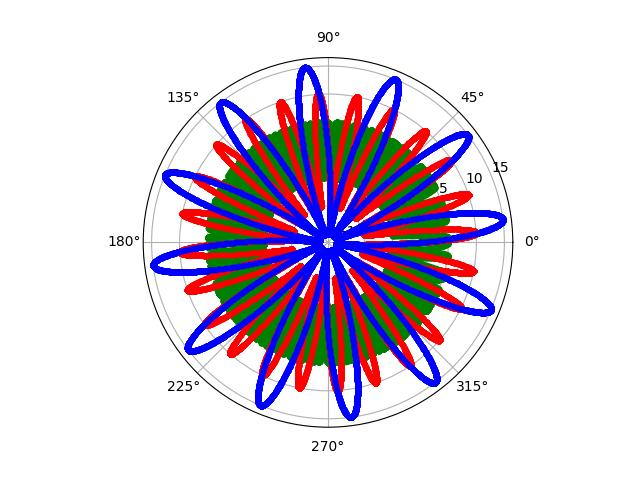
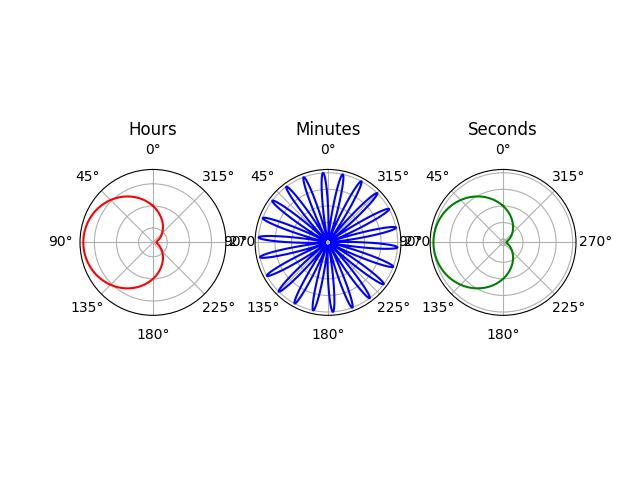
No-overlay for display: hours, minutes, seconds

diff --git a/Lab 2/escreen_clock.py b/Lab 2/escreen_clock.py
@@ -163,74 +163,89 @@ while True:
     
     # TODO: Verify parameters plot correct number of petals according to hours, minutes, seconds
     # Seconds
-    if seconds % 2 == 0 and seconds/2 % 2 == 0: # seconds are even
-        # seconds = seconds/2
-        ss = a_sec * np.sin(seconds*rads)
-        plt.polar(rads, ss, 'g.')
-    elif seconds % 2 == 0 and seconds/2 % 2 != 0:
-        ss = a_sec * np.cos((seconds/2)*rads)
-        plt.polar(rads, ss, 'g.')
-        ss = a_sec * np.cos((seconds/2)*rads)
-        plt.polar(rads, ss, 'g.')
-    else: # seconds are odd
-        ss = a_sec * np.sin(seconds*rads)
-        plt.polar(rads, ss, 'g.')
+    # if seconds % 2 == 0 and seconds/2 % 2 == 0: # seconds are even
+    #     # seconds = seconds/2
+    #     ss = a_sec * np.sin(seconds*rads)
+    #     # plt.polar(rads, ss, 'g.')
+    # elif seconds % 2 == 0 and seconds/2 % 2 != 0:
+    #     ss = a_sec * np.cos((seconds/2)*rads)
+    #     # plt.polar(rads, ss, 'g.')
+    #     ss = a_sec * np.cos((seconds/2)*rads)
+    #     # plt.polar(rads, ss, 'g.')
+    # else: # seconds are odd
+    #     ss = a_sec * np.sin(seconds*rads)
+    #     # plt.polar(rads, ss, 'g.')
 
-    # Minutes
-    if minutes % 2 == 0 and minutes/2 % 2 == 0: # minute is even
-        # minutes = minutes/2
-        mm = a_min * np.sin(minutes*rads)
-        plt.polar(rads, mm, 'r.')
-    elif minutes % 2 == 0 and minutes/2 % 2 != 0:
-        mm = a_min * np.cos((minutes/2)*rads)
-        plt.polar(rads, mm, 'r.')
-        mm = a_min * np.cos((minutes/2)*rads)
-        plt.polar(rads, mm, 'r.')
-    else: # hour is odd
-        mm = a_min * np.sin(minutes*rads)
-        plt.polar(rads, mm, 'r.')
+    # # Minutes
+    # if minutes % 2 == 0 and minutes/2 % 2 == 0: # minute is even
+    #     # minutes = minutes/2
+    #     mm = a_min * np.sin(minutes*rads)
+    #     # plt.polar(rads, mm, 'r.')
+    # elif minutes % 2 == 0 and minutes/2 % 2 != 0:
+    #     mm = a_min * np.cos((minutes/2)*rads)
+    #     # plt.polar(rads, mm, 'r.')
+    #     mm = a_min * np.cos((minutes/2)*rads)
+    #     # plt.polar(rads, mm, 'r.')
+    # else: # hour is odd
+    #     mm = a_min * np.sin(minutes*rads)
+    #     # plt.polar(rads, mm, 'r.')
 
-    # Hours
-    if hours == 0:
-        hours = 12
-    if hours > 12:
-        hours = hours - 12
-    if hours % 2 == 0 and hours/2 % 2 == 0: # hour is even
-        # hours = hours/2
-        hh = a_hr * np.sin(hours*rads)
-        plt.polar(rads, hh, 'b.')
-    elif hours % 2 == 0 and hours/2 % 2 != 0:
-        hh = a_hr * np.cos((hours/2)*rads)
-        plt.polar(rads, hh, 'b.')
-        hh = a_hr * np.sin((hours/2)*rads)
-        plt.polar(rads, hh, 'b.')
-    else: # hour is odd
-        hh = a_hr * np.sin(hours*rads)
-        plt.polar(rads, hh, 'b.')
+    # # Hours
+    # if hours == 0:
+    #     hours = 12
+    # if hours > 12:
+    #     hours = hours - 12
+    # if hours % 2 == 0 and hours/2 % 2 == 0: # hour is even
+    #     # hours = hours/2
+    #     hh = a_hr * np.sin(hours*rads)
+    #     # plt.polar(rads, hh, 'b.')
+    # elif hours % 2 == 0 and hours/2 % 2 != 0:
+    #     hh = a_hr * np.cos((hours/2)*rads)
+    #     # plt.polar(rads, hh, 'b.')
+    #     hh = a_hr * np.sin((hours/2)*rads)
+    #     # plt.polar(rads, hh, 'b.')
+    # else: # hour is odd
+    #     hh = a_hr * np.sin(hours*rads)
+    #     # plt.polar(rads, hh, 'b.')
     
-
-    # mm = a_min * np.sin(minutes*rads)
+    ss = a_sec * np.sin(seconds*rads)
+    mm = a_min * np.sin(minutes*rads)
+    hh = a_hr * np.sin(hours*rads)
     # plt.polar(rads, mm, 'g.')
-    # hh = a_hr * np.sin(hours*rads)
+    
     # plt.polar(rads, hh, 'b.')
+    
+    fig, (ax1, ax2, ax3) = plt.subplots(1, 3, subplot_kw=dict(projection='polar'))
+    ax1.plot(rads, hh, color='r')
+    ax2.plot(rads, mm, color='b',)
+    ax3.plot(rads, ss, color='g')
+    ax1.set_yticklabels([])
+    ax1.set_theta_zero_location('N')
+    ax2.set_yticklabels([])
+    ax2.set_theta_zero_location('N')
+    ax3.set_yticklabels([])
+    ax3.set_theta_zero_location('N')
+    ax1.title.set_text('Hours')
+    ax2.title.set_text('Minutes')
+    ax3.title.set_text('Seconds')
 
+    # Save subplots as image 
     plt.savefig("time_output.jpg")
     
-   
-
-    # Draw a white filled box to clear the image.
-    image = Image.new("RGB", (width, height))
-    draw = ImageDraw.Draw(image)
-    draw.rectangle((0, 0, width, height), outline=0, fill=(255, 255, 255))
-    disp.image(image)
-
+    plt.close() # close plot to save resources
     
+   
+    # Draw a white filled box to clear the image.
+    # image = Image.new("RGB", (width, height))
+    # draw = ImageDraw.Draw(image)
+    # draw.rectangle((0, 0, width, height), outline=0, fill=(255, 255, 255))
+    # disp.image(image)
 
-    image = Image.open("time_output.jpg")
+    image = Image.open("time_output.jpg").rotate(90)  # Open saved subplots showing current time 
+
     backlight = digitalio.DigitalInOut(board.D22)
     backlight.switch_to_output()
     backlight.value = True
-
 
     # Scale the image to the smaller screen dimension
     image_ratio = image.width / image.height
